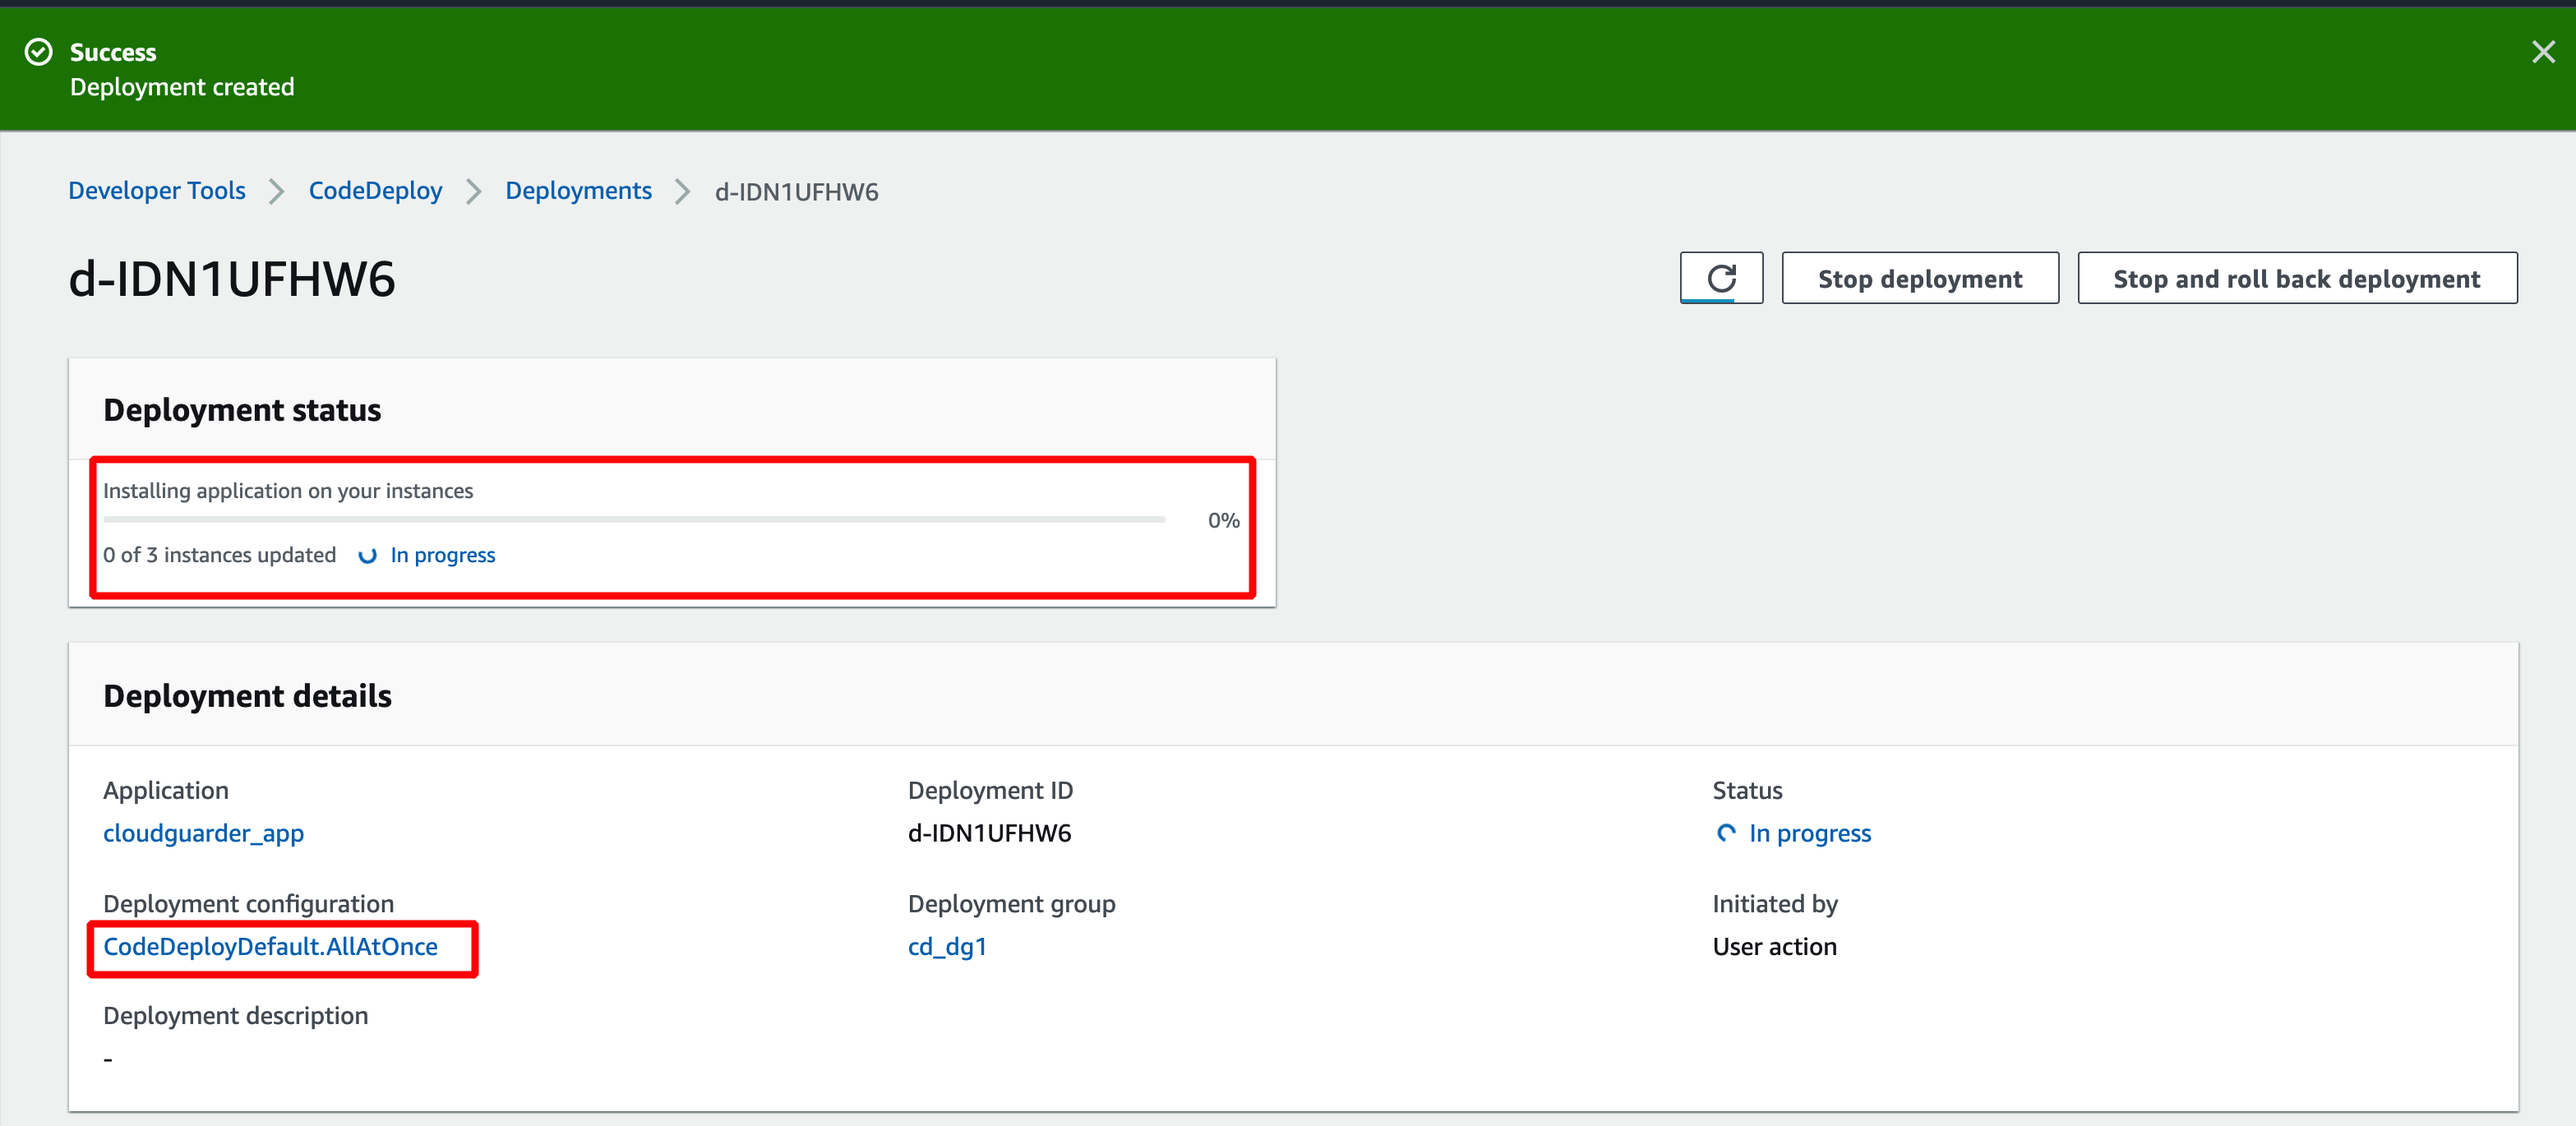
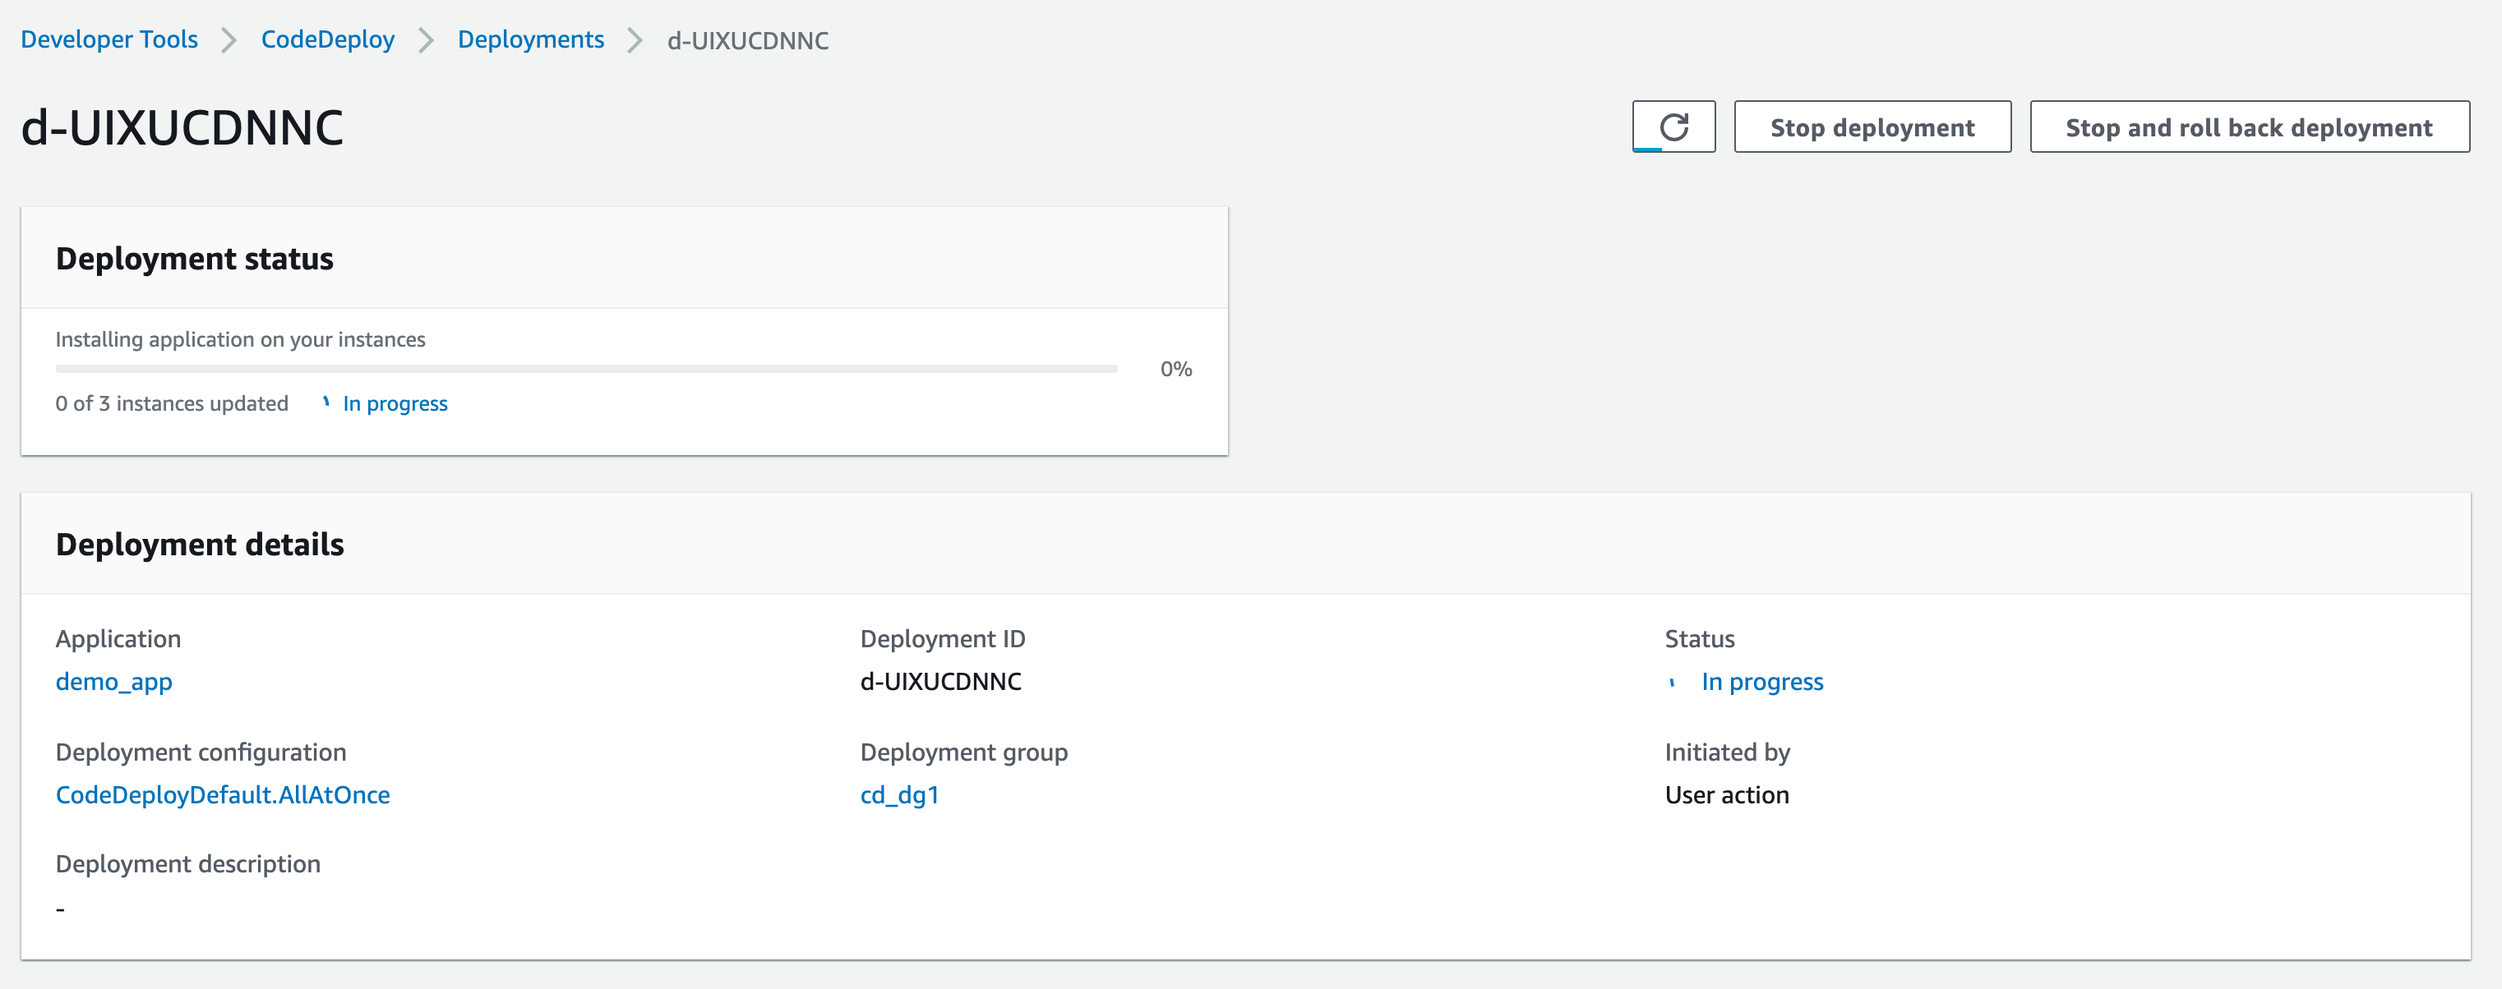
README.md

diff --git a/README.md b/README.md
@@ -225,7 +225,7 @@ Now, you can go ahead and access the DNS name of the application load balancer o
 
 > Note: By now, the application code is deployed to all 3 ec2 instances, and an application load balancer which sits in front of application servers is exposed to the Internet for public access. 
 
-![header image](img/cloudguarder-app.png)
+![header image](img/demo_app.png)
 
 CONGRATULATIONS! You've successfully automated creation of AWS infrastructure, and deployed your application to applications servers using Terraform & AWS CodeDeploy!
 
